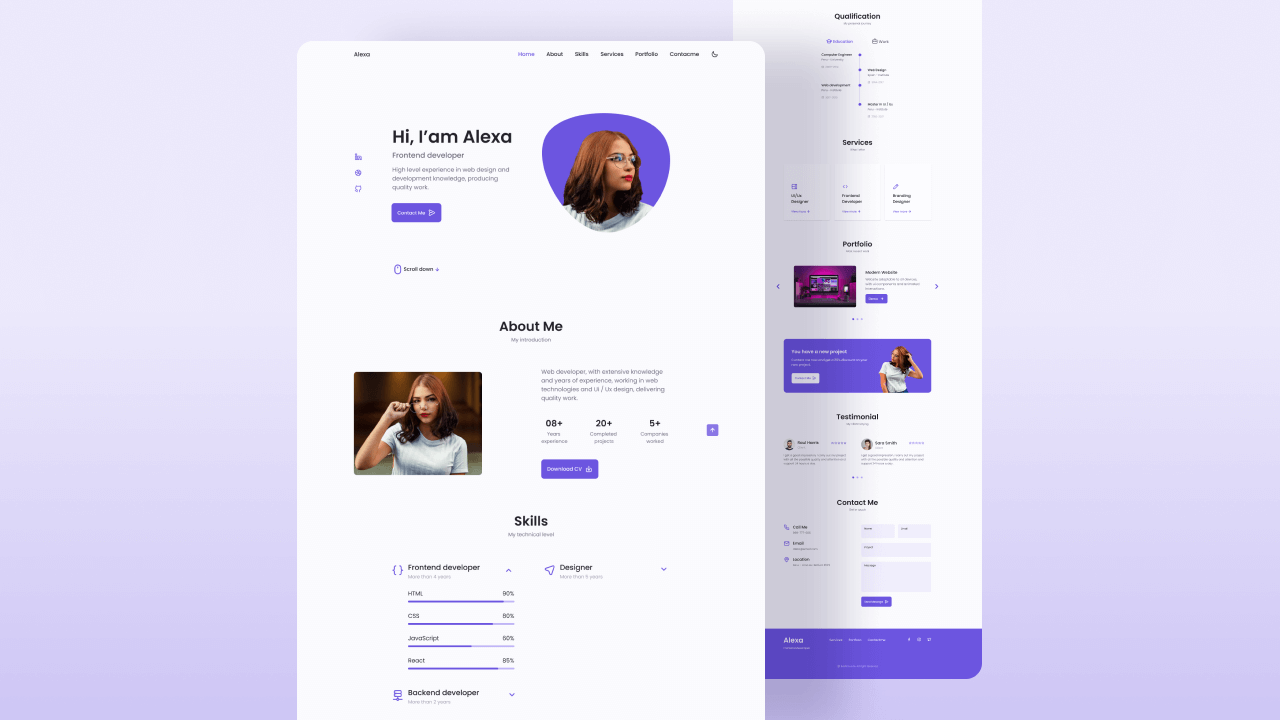
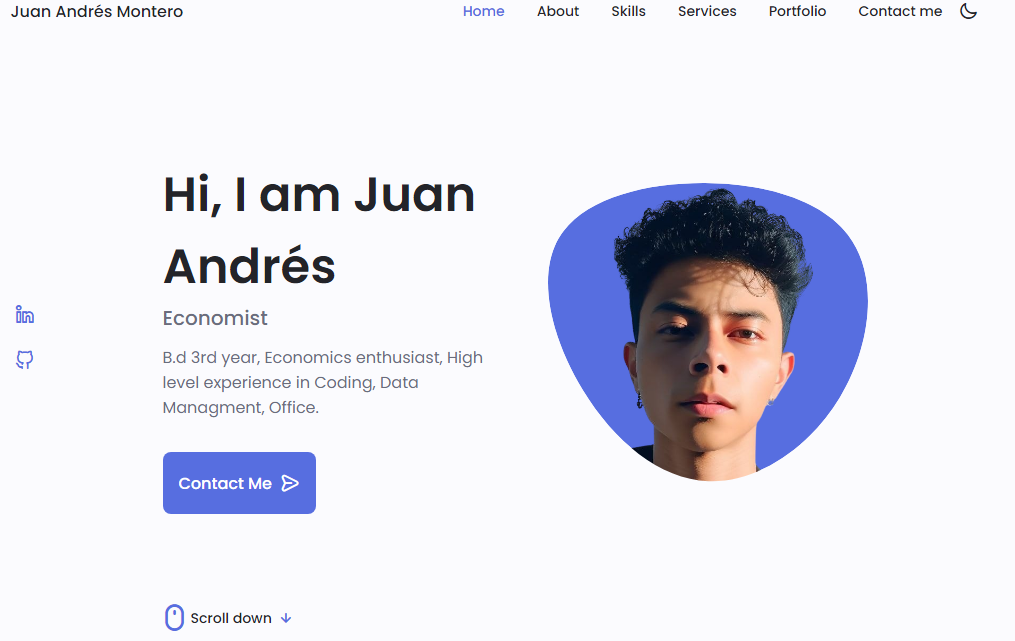
update github

diff --git a/README.md b/README.md
@@ -1,1 +1,8 @@
-# juanandres-montero.github.io
+# Welcome!.
+## [Go to website](https:https://juanandres-montero.github.io/)
+### Personal Juan Andrés's Portfolio Website 
+- Includes a light and dark mode.
+- Developed first with the Mobile First methodology, then for desktop.
+- Compatible with all mobile devices and with a beautiful and pleasant user interface.
+
+![preview img](/preview.png)
